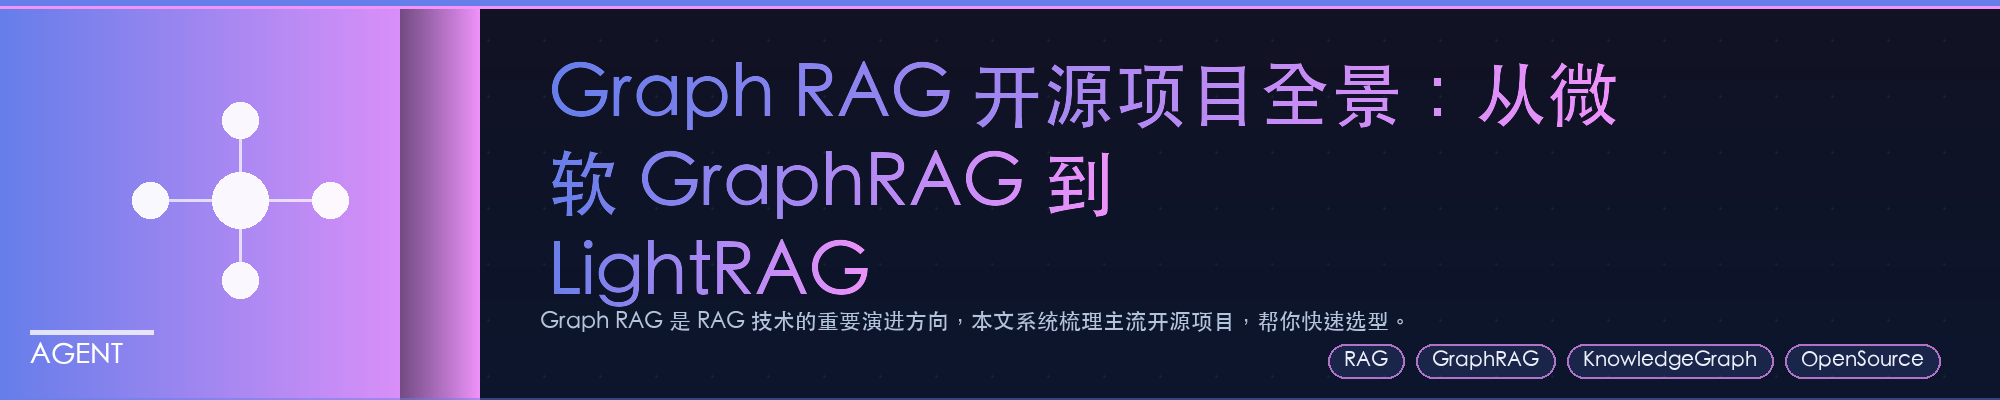
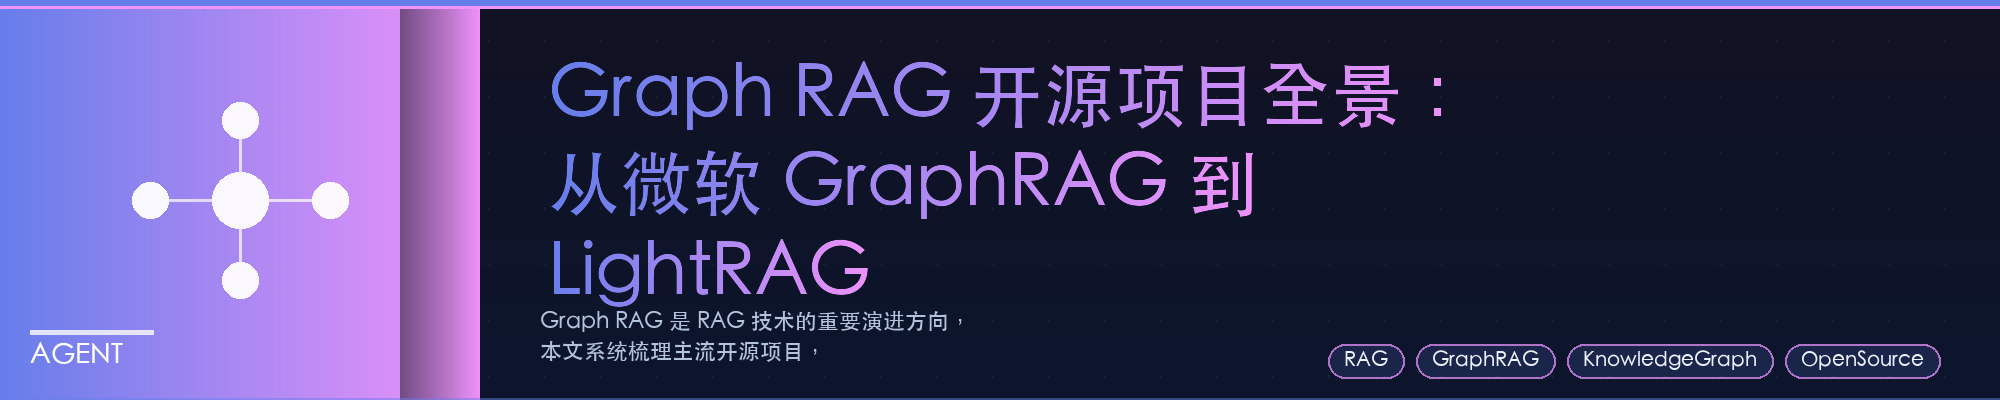
fix: update image paths in multiple index files to ensure correct rendering

diff --git a/content/post/Agent/智能体编排/01-智能体编排设计工程师学习指南/index.md b/content/post/Agent/智能体编排/01-智能体编排设计工程师学习指南/index.md
@@ -2,6 +2,7 @@
 title: "智能体编排设计工程师学习指南"
 description: "深入解析智能体编排设计工程师这一新兴岗位的职责、技能要求与发展路径，从 LLM 框架到多智能体协作的完整学习地图。"
 date: 2025-06-17T11:00:00+08:00
+image: images/index/index.png
 categories:
     - Agent
 tags:

diff --git a/content/post/Agent/GraphRAG开源项目全景：从微软GraphRAG到LightRAG/index.md b/content/post/Agent/GraphRAG开源项目全景：从微软GraphRAG到LightRAG/index.md
@@ -2,7 +2,7 @@
 title: Graph RAG 开源项目全景：从微软 GraphRAG 到 LightRAG
 description: Graph RAG 是 RAG 技术的重要演进方向，本文系统梳理主流开源项目，帮你快速选型。
 date: 2026-03-27T16:00:00+08:00
-image: images/index.png
+image: images/index/index.png
 categories:
     - Agent
 tags:

diff --git a/content/post/Agent/RAG技术全景：从入门到进阶/index.md b/content/post/Agent/RAG技术全景：从入门到进阶/index.md
@@ -2,7 +2,7 @@
 title: RAG 技术全景：从入门到进阶
 description: RAG 不只是检索+生成，Graph RAG、Agentic RAG、多模态 RAG……一文梳理 RAG 的技术演进路线。
 date: 2026-03-26T16:00:00+08:00
-image: images/index.png
+image: images/index/index.png
 categories:
     - Agent
 tags:
